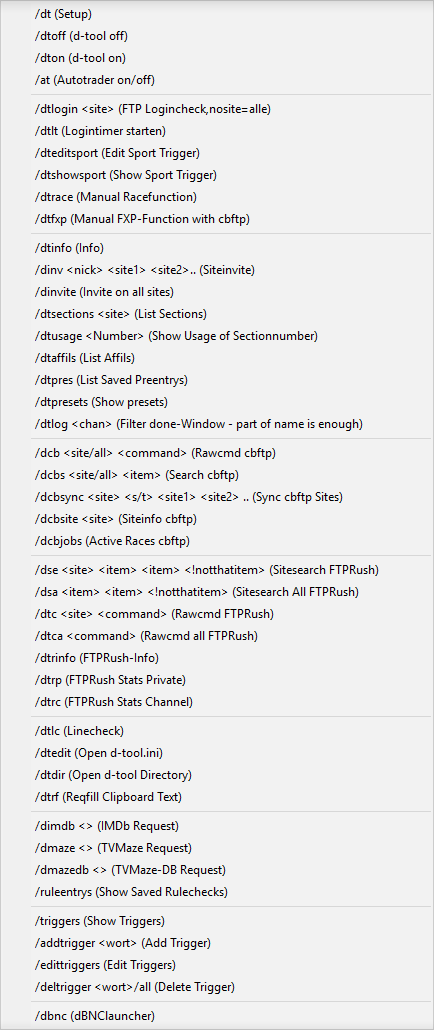
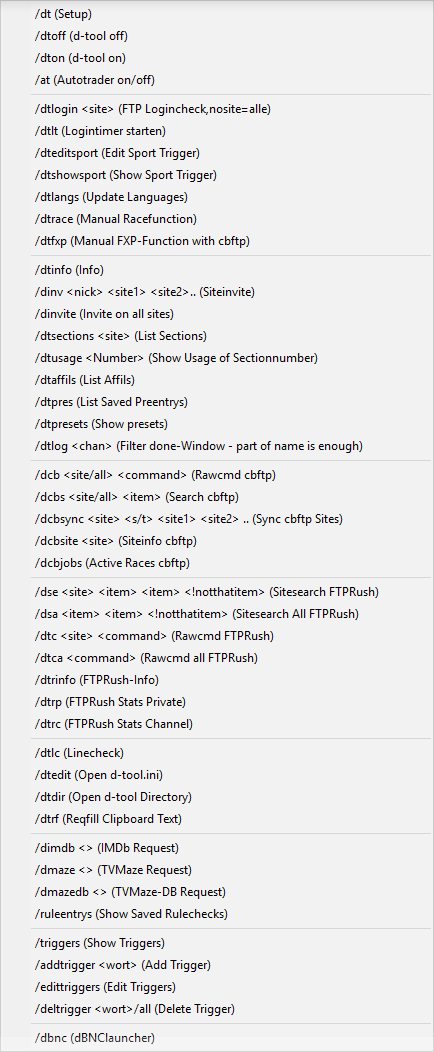
commands.update

Changed region(s): [[0.0599, 0.0, 0.8687, 0.9942]]

diff --git a/Commands.html b/Commands.html
@@ -129,7 +129,9 @@ _____________________________________________________________ <br>
 <strong>/dtlogin &lt;site&gt;</strong> - FTP Logincheck, keine Siteangabe = alle Server<br />
 <strong>/dtlt </strong> -  Logintimer starten<br>
 <strong>/dteditsport</strong> - Sport Trigger bearbeiten<br>
-<strong>/dtshowsport</strong> - Sport Trigger anzeigen<br>
+<strong>/dtshowsport</strong> - Sport Trigger anzeigen<br />
+<strong>/dlangs - </strong>Manuelles Updaten der Sprachen durch die Listen im d-tool Ordner
+<br>
 <strong>/dtrace - </strong>Manuelle Racefunktion (zum testen)<br>
 Vorher Release in die Zwischenablage kopieren und Sektion merken. Wahlweise <br />
 mit Precheck oder als  Simulation (bei Simulation wird nichts zum FTP Clienten gesendet)<br>
@@ -198,7 +200,7 @@ zB. Sitenchan, dann wird  angezeigt was man auf einer bestimmten Site angestellt
 </p></td>
     <td width="486" valign="top" align="left"><p>&nbsp;</p>
       <p>&nbsp;</p>
-      <p><img src="Commands-Dateien/menu-commands.png" width="434" height="1030"></p>
+      <p><img src="Commands-Dateien/menu-commands.png" width="434" height="1052"></p>
     <p>Kontextmenü &gt; d-tool &gt; Commands</p></td>
   </tr>
   <tr>
